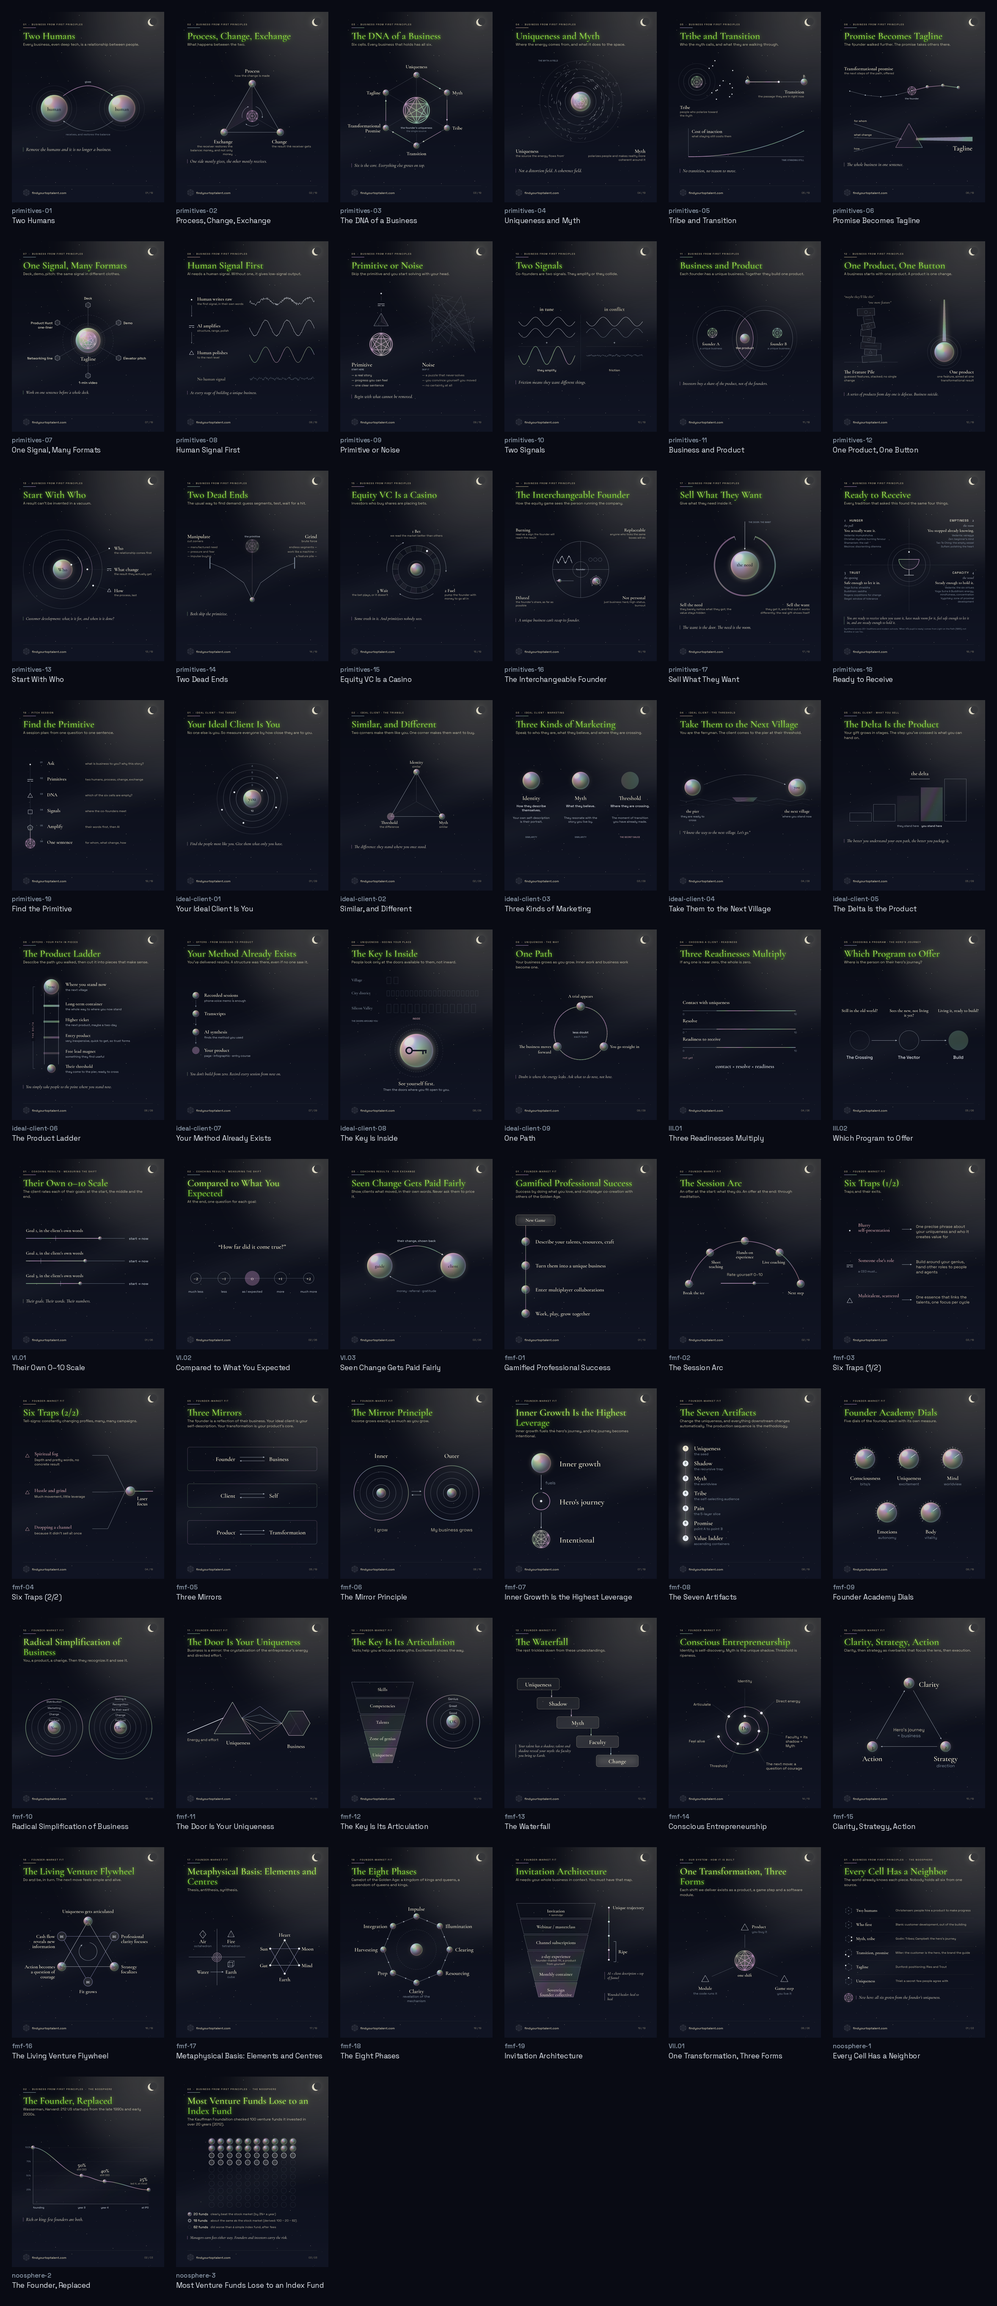
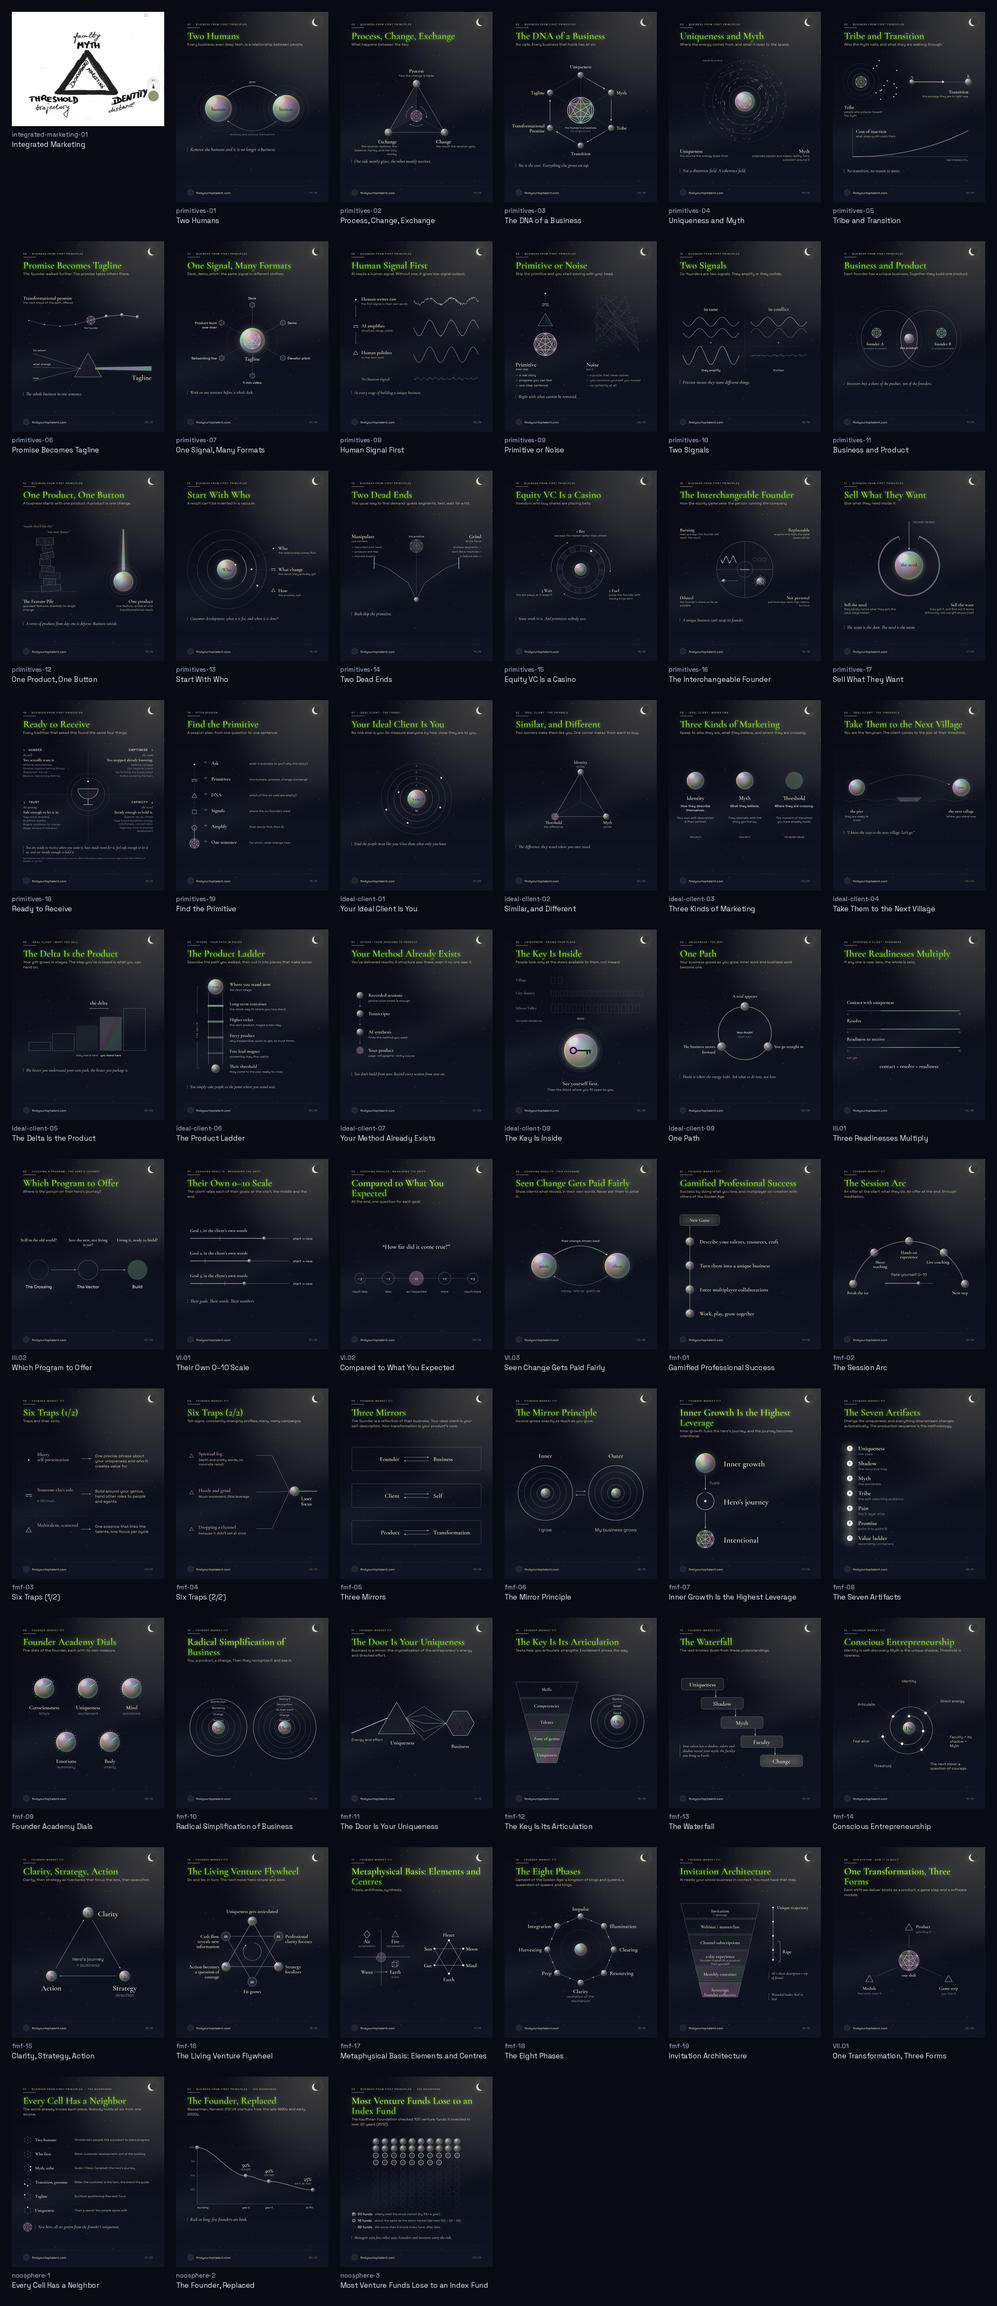
feat(book): as-is card kind; Integrated Marketing opens chapter 3 (#563) (#564)
* Book: Sasha's hand-drawn Integrated Marketing triangle (as is, 2026-11-27)

* feat(book): as-is card kind; Integrated Marketing opens chapter 3 (#563)

Add kind: as_is to the kit: the author's picture is converted to PNG and
never drawn, restyled, resized, cropped or footered. Lint checks only
title/caption and that the source file exists. Add Sasha's hand drawing as
integrated-marketing-01, first card of 3.1 (approved v1); regenerate reader
data, BOOK.md, sheet and lock.

---------

diff --git a/src/data/infographicBook.ts b/src/data/infographicBook.ts
@@ -96,6 +96,7 @@ export const BOOK_CHAPTERS: BookChapter[] = [
     depth: 2,
     coming: false,
     cards: [
+      { id: "integrated-marketing-01", title: "Integrated Marketing", caption: "Myth, Threshold, Identity: the path to business and client", image: "/infographics/book/integrated-marketing/integrated-marketing-01.png", status: "approved v1" },
       { id: "primitives-01", title: "Two Humans", caption: "Every business, even deep tech, is a relationship between people.", image: "/infographics/book/first-principles/primitives-01.png", status: "draft v4" },
       { id: "primitives-02", title: "Process, Change, Exchange", caption: "What happens between the two.", image: "/infographics/book/first-principles/primitives-02.png", status: "draft v4" },
       { id: "primitives-03", title: "The DNA of a Business", caption: "Six cells. Every business that holds has all six.", image: "/infographics/book/first-principles/primitives-03.png", status: "draft v4" },

diff --git a/src/data/__tests__/infographicBook.test.ts b/src/data/__tests__/infographicBook.test.ts
@@ -47,7 +47,7 @@ describe("the Book of Infographics data (C4) follows BOOK.md", () => {
 
   it("keeps BOOK.md order: 1, 2, 2.1 … 5", () => {
     expect(BOOK_CHAPTERS.map((c) => c.number)).toEqual(["1", "2", "2.1", "2.2", "2.3", "2.4", "3", "3.1", "3.2", "3.3", "4", "4.1", "4.2", "5"]);
-    expect(BOOK_CHAPTERS.find((c) => c.number === "3.1")?.cards).toHaveLength(19);
+    expect(BOOK_CHAPTERS.find((c) => c.number === "3.1")?.cards).toHaveLength(20);
     expect(BOOK_CHAPTERS.find((c) => c.number === "5")?.cards).toHaveLength(4);
   });
 });

diff --git a/docs/assets/infographics/kit/test_kit.py b/docs/assets/infographics/kit/test_kit.py
@@ -8,7 +8,7 @@ import unittest
 HERE = os.path.dirname(os.path.abspath(__file__))
 INF = os.path.dirname(HERE)
 sys.path.insert(0, INF)
-from kit import book_build, book_sync, compare, lint, render, skins, spec as specmod  # noqa: E402
+from kit import asis, book_build, book_sync, compare, lint, render, skins, spec as specmod  # noqa: E402
 
 
 class Fake:
@@ -419,6 +419,99 @@ class BookBuild(unittest.TestCase):
         book_build.build(self.paths, say=out.append)
         self.assertIn("rendered 1 of 2 card(s)", "\n".join(out))
         self.assertEqual(book_build.check(self.paths, say=lambda *_: None), 0)
+
+
+AS_IS_SPEC = """id: asis-01
+chapter: "2.1"
+kind: as_is
+source: asis-01.source.jpeg
+title: "Drawn By Hand"
+caption: "Shown exactly as drawn."
+text:
+  words: ["Myth", "Threshold"]
+sources:
+  - issue #563
+"""
+
+
+class AsIs(unittest.TestCase):
+    """`kind: as_is`: the card is the author's picture; the build converts it to PNG and never restyles it."""
+
+    def setUp(self):
+        self.tmp = tempfile.TemporaryDirectory()
+        r = self.tmp.name
+        os.makedirs(os.path.join(r, "book", "hand")); os.makedirs(os.path.join(r, "public"))
+        from PIL import Image
+        import numpy as np
+        rng = np.random.default_rng(7)
+        self.src = os.path.join(r, "book", "hand", "asis-01.source.jpeg")
+        Image.fromarray(rng.integers(0, 256, (90, 120, 3), dtype=np.uint8)).save(self.src, quality=90)  # 120x90, not a kit size
+        self.spec_path = os.path.join(r, "book", "hand", "asis-01.card.yaml")
+        self.write_spec(AS_IS_SPEC)
+        self.paths = book_build.Paths(book=os.path.join(r, "book"), public=os.path.join(r, "public"),
+                                      ts=os.path.join(r, "infographicBook.ts"), md=os.path.join(r, "BOOK.md"))
+        with open(os.path.join(self.paths.book, "book.yaml"), "w", encoding="utf-8") as f:
+            f.write('title: T\nchapters:\n  - number: "2"\n    title: Part\n    sections:\n      - number: "2.1"\n'
+                    '        title: First\n        cards:\n          - {id: asis-01, spec: hand/asis-01.card.yaml, status: approved v1}\n')
+        with open(self.paths.md, "w", encoding="utf-8") as f:  # BOOK.md lists the card, as the real one does
+            f.write(BOOKMD + "<!-- book:begin cards-hand -->\nold\n<!-- book:end cards-hand -->\n")
+
+    def tearDown(self):
+        self.tmp.cleanup()
+
+    def write_spec(self, text):
+        with open(self.spec_path, "w", encoding="utf-8") as f:
+            f.write(text)
+
+    def test_the_png_has_the_source_pixels_and_nothing_else(self):
+        import numpy as np
+        from PIL import Image
+        out = os.path.join(self.tmp.name, "out.png")
+        asis.build_png(specmod.load(self.spec_path), out)
+        a, b = Image.open(self.src), Image.open(out)
+        self.assertEqual((b.format, b.size, b.mode), ("PNG", a.size, a.mode))  # no resize, no crop, no footer band
+        self.assertTrue((np.asarray(a) == np.asarray(b)).all())
+
+    def test_lint_checks_the_file_and_the_words_only(self):
+        spec = specmod.load(self.spec_path)
+        self.assertTrue(asis.is_as_is(spec))
+        self.assertEqual([r for r in asis.check(spec) if not r[1]], [])  # no skin, no footer, no word limit
+        self.assertEqual(asis.missing(spec), [])
+        os.remove(self.src)
+        self.assertIn("source-file", [r for r, ok, _ in asis.check(spec) if not ok])
+        self.write_spec(AS_IS_SPEC.replace('title: "Drawn By Hand"\n', "").replace('caption: "Shown exactly as drawn."\n', ""))
+        self.assertEqual(sorted(asis.missing(specmod.load(self.spec_path))), ["caption", "title"])
+        self.write_spec(AS_IS_SPEC.replace("source: asis-01.source.jpeg", "source: ../elsewhere.jpeg"))
+        self.assertTrue(any(m.startswith("source") for m in asis.missing(specmod.load(self.spec_path))))
+        self.assertEqual(lint.lint_spec(self.spec_path)[1][0][1], "FAIL")  # same spec, bad source: lint fails, does not crash
+
+    def test_lint_spec_passes_a_good_as_is_card(self):
+        cid, rows = lint.lint_spec(self.spec_path)
+        self.assertEqual(cid, "asis-01")
+        self.assertEqual({s for _, s, _ in rows}, {"PASS"}, rows)
+
+    def test_book_build_copies_checks_and_notices_a_changed_source(self):
+        out = []
+        self.assertEqual(book_build.build(self.paths, say=out.append), 0, out)
+        png = os.path.join(self.paths.book, "hand", "asis-01.png")
+        pub = os.path.join(self.paths.public, "hand", "asis-01.png")
+        self.assertTrue(os.path.exists(png) and os.path.exists(pub))
+        self.assertEqual(book_build._sha(png), book_build._sha(pub))
+        self.assertIn("asis-01", book_build.read_lock(self.paths)["cards"])
+        self.assertEqual(book_build.check(self.paths, say=out.append), 0, out)
+        from PIL import Image
+        Image.new("RGB", (120, 90), (1, 2, 3)).save(self.src, quality=90)  # the author redraws it
+        self.assertNotEqual(book_build.check(self.paths, skip_lint=True, say=lambda *_: None), 0)
+        out = []
+        self.assertEqual(book_build.build(self.paths, say=out.append), 0, out)
+        self.assertIn("rendered 1 of 1 card(s)", "\n".join(out))
+        self.assertEqual(book_build.check(self.paths, say=lambda *_: None), 0)
+
+    def test_a_missing_source_stops_the_build(self):
+        os.remove(self.src)
+        out = []
+        self.assertNotEqual(book_build.build(self.paths, say=out.append), 0)
+        self.assertTrue(any("source-file" in l for l in out), out)
 
 
 class CaptionSize(unittest.TestCase):

diff --git a/docs/assets/infographics/kit/asis.py b/docs/assets/infographics/kit/asis.py
@@ -1,0 +1,66 @@
+"""As-is cards: the author's own picture shown exactly as drawn.
+
+A spec with `kind: as_is` and `source: <file>` (a file beside the spec) has no skin, no script and no renderer.
+The build converts the source to PNG and nothing else: no resize, no crop, no footer, no restyle.
+Lint checks two things only: title / caption (and id, chapter) are present, and the source file exists.
+
+Kept out of vocab/skins/render/spec on purpose: those files are the renderer fingerprint in book.lock.json,
+and touching them would mark all the drawn cards stale.
+"""
+import hashlib
+import os
+
+KIND = "as_is"
+RULES = ("spec-fields", "source-file")
+NEEDED = ("id", "chapter", "title", "caption", "source")
+PNG_MODES = ("1", "L", "LA", "P", "RGB", "RGBA", "I;16")
+
+
+def is_as_is(spec):
+    return spec.get("kind") == KIND
+
+
+def source_path(spec):
+    return os.path.join(os.path.dirname(spec.path), str(spec.get("source", "")))
+
+
+def missing(spec):
+    """Fields an as-is spec must carry. `source` is a bare file name: the picture lives beside its spec."""
+    bad = [k for k in NEEDED if not spec.get(k)]
+    for k in ("title", "caption"):
+        if spec.get(k) and not isinstance(spec[k], str):
+            bad.append(f"{k} (must be a string)")
+    src = spec.get("source")
+    if src and (not isinstance(src, str) or os.path.basename(src) != src):
+        bad.append("source (a file name beside the spec, no folders)")
+    return bad
+
+
+def check(spec):
+    """-> [(rule, ok, detail)], the same shape as lint.check."""
+    miss = missing(spec)
+    path = source_path(spec) if spec.get("source") and not any(m.startswith("source") for m in miss) else ""
+    exists = bool(path) and os.path.isfile(path)
+    return [("spec-fields", not miss, "id, chapter, title, caption, source present" if not miss else f"missing: {', '.join(miss)}"),
+            ("source-file", exists, os.path.basename(path) if exists else f"source file not found: {spec.get('source')!r}")]
+
+
+def build_png(spec, out_png):
+    """Write the source's pixels to out_png as PNG, untouched. (Only a mode PNG cannot hold, e.g. CMYK, is converted to RGB.)"""
+    from PIL import Image
+    with Image.open(source_path(spec)) as im:
+        im.load()
+        if im.mode not in PNG_MODES:
+            im = im.convert("RGB")
+        im.save(out_png, format="PNG", icc_profile=im.info.get("icc_profile"))
+    return out_png
+
+
+def fingerprint(spec):
+    """What the PNG is made of: the spec and the source file."""
+    h = hashlib.sha256()
+    for p in (spec.path, source_path(spec)):
+        with open(p, "rb") as f:
+            h.update(f.read())
+        h.update(b"\0")
+    return h.hexdigest()

diff --git a/docs/assets/infographics/kit/book_build.py b/docs/assets/infographics/kit/book_build.py
@@ -30,7 +30,7 @@ from collections import namedtuple
 import yaml
 
 sys.path.insert(0, os.path.dirname(os.path.dirname(os.path.abspath(__file__))))
-from kit import book_sync, lint, render, sheet, skins, spec as specmod  # noqa: E402
+from kit import asis, book_sync, lint, render, sheet, skins, spec as specmod  # noqa: E402
 
 REPO = os.path.normpath(os.path.join(skins.INFOGRAPHICS, "..", "..", ".."))
 Paths = namedtuple("Paths", "book public ts md")  # book = dir holding book.yaml, cards and sheet.png
@@ -124,9 +124,11 @@ def _card(entry, chapter_no, errors, seen_ids, paths):
         errors.append(f"{where}: spec says id {spec.get('id')!r}")
     if str(spec.get("chapter")) != chapter_no:
         errors.append(f"{where}: sits in chapter {chapter_no}, spec says chapter {spec.get('chapter')!r}")
-    miss = specmod.missing(spec)
+    miss = asis.missing(spec) if asis.is_as_is(spec) else specmod.missing(spec)
     if miss:
         errors.append(f"{where}: spec incomplete: {', '.join(miss)}")
+    elif asis.is_as_is(spec) and not os.path.isfile(asis.source_path(spec)):
+        errors.append(f"{where}: source-file: source file not found: {spec['source']!r}")
     card.update(spec=spec, folder=folder, image=f"{folder}/{cid}.png", title=spec.get("title", ""),
                 caption=spec.get("caption") or "")
     return card
@@ -264,6 +266,8 @@ def apply_markers(md, blocks):
 
 
 def fingerprint_card(spec):
+    if asis.is_as_is(spec):  # spec + source picture; no script, the renderer does not apply
+        return asis.fingerprint(spec)
     h = hashlib.sha256()
     for p in (spec.path, spec.script):
         with open(p, "rb") as f:
@@ -341,6 +345,11 @@ def pixel_diff(a, b):
 def render_card(card, paths, out_png):
     """Render to out_png, lint. -> list of FAIL lines (empty = lint PASS)."""
     spec = card["spec"]
+    if asis.is_as_is(spec):  # the author's picture: convert only, lint = file + title/caption
+        bad = [f"FAIL  {card['id']}  {r:<11} {d}" for r, ok, d in asis.check(spec) if not ok]
+        if not bad:
+            asis.build_png(spec, out_png)
+        return bad
     c = render.build(spec)
     c.save(out_png)
     return [f"FAIL  {card['id']}  {r:<11} {d}" for r, ok, d in lint.check(c, spec) if not ok]

diff --git a/docs/assets/infographics/kit/lint.py b/docs/assets/infographics/kit/lint.py
@@ -24,6 +24,10 @@ App icons (spec `kind: icon`, see icon.py) are checked by `check_icon` with ICON
   no-text      no text drawn on an icon
   spec-fields  as above
 
+As-is cards (spec `kind: as_is`, `source: <file>`, see asis.py) are never drawn, so they get two rules only:
+  spec-fields  id, chapter, title, caption and source present
+  source-file  the source file exists
+
 Icons v2 / v3 (spec `icon_version: 2|3`, issues #528, #533) add two rules and tighten one (ICON_V2_RULES):
   elements     at most 4 shapes (parts drawn with the same `group` count once), all on the "after" side: no before, no chevron
   fill         the sign's longest side is 62-78% of the tile (the brief says ~70%)
@@ -35,7 +39,7 @@ import sys
 import tempfile
 
 sys.path.insert(0, os.path.dirname(os.path.dirname(os.path.abspath(__file__))))
-from kit import skins, spec as specmod  # noqa: E402
+from kit import asis, skins, spec as specmod  # noqa: E402
 
 RULES = ("fit", "words", "palette", "accent", "margins", "min-font", "footer", "spec-fields")
 ICON_RULES = ("palette", "accent", "margins", "stroke", "elements", "no-text", "spec-fields")
@@ -218,6 +222,8 @@ def lint_spec(path):
     except Exception as e:  # unreadable spec
         return "?", [("spec-fields", "FAIL", f"cannot read spec: {e}")] + [(r, "SKIP", "no spec") for r in RULES if r != "spec-fields"]
     cid = spec.get("id", os.path.basename(path))
+    if asis.is_as_is(spec):  # the author's picture: only title/caption and the source file are checked
+        return cid, [(r, "PASS" if ok else "FAIL", d) for r, ok, d in asis.check(spec)]
     icon = spec.get("kind") == "icon"
     RS = (ICON_V2_RULES if spec.get("icon_version") in (2, 3) else ICON_RULES) if icon else RULES
     missing = specmod.missing(spec)

diff --git a/docs/assets/infographics/kit/ci.py b/docs/assets/infographics/kit/ci.py
@@ -10,7 +10,7 @@ import subprocess
 import sys
 
 sys.path.insert(0, os.path.dirname(os.path.dirname(os.path.abspath(__file__))))
-from kit import book_sync, lint, render, sheet, skins, spec as specmod  # noqa: E402
+from kit import asis, book_sync, lint, render, sheet, skins, spec as specmod  # noqa: E402
 
 REPO = os.path.normpath(os.path.join(skins.INFOGRAPHICS, "..", "..", ".."))
 GLOBAL = ("docs/assets/infographics/kit/", "docs/assets/infographics/engine-v4/", "docs/assets/infographics/fyt_style.py")
@@ -52,7 +52,8 @@ if __name__ == "__main__":
     os.makedirs(a.out, exist_ok=True)
     specs = [specmod.load(p) for p in paths]
     for s in specs:
-        render.render(s)
+        if not asis.is_as_is(s):  # as-is cards keep the author's pixels; the build converts them
+            render.render(s)
     rc = lint.main(paths)
     rc |= book_sync.main(paths)
     print(sheet.make_sheet(specs, os.path.join(a.out, "contact-sheet.png")))

diff --git a/docs/assets/infographics/kit/README.md b/docs/assets/infographics/kit/README.md
@@ -11,6 +11,7 @@ Needs `pip install pillow numpy pyyaml` (matplotlib + scipy only for the old `fy
 | `spec.py`, `render.py` | load `<card>.card.yaml`; import `<card>.py`, call `build(spec)`, save `<card>.png` |
 | `lint.py` | 8 rules on a rendered card, read from `card.log` (not image recognition) |
 | `book_build.py` | the Book from one manifest: `book/book.yaml` → render, lint, PNGs, reader data, BOOK.md blocks, `book/sheet.png`; `--check` for CI (see Book below) |
+| `asis.py` | as-is cards (`kind: as_is`): the author's picture converted to PNG, never drawn or restyled; its two lint rules (see Recipe: add a card the author drew) |
 | `book_sync.py` | `--check`: spec title/caption equal `BOOK.md` and `src/data/infographicBook.ts` |
 | `sheet.py` | one contact sheet PNG per batch: grid, each card with id + title |
 | `compare.py` | mean abs pixel diff of a ported card against the engine-v4 render it came from |
@@ -146,6 +147,13 @@ Generated: `infographicBook.ts`, the `<!-- book:begin … -->` blocks of `BOOK.m
 1. Edit the card's `*.card.yaml` (text, title, caption) or `*.py` (drawing).
 2. `python3 kit/book_build.py`: only that card re-renders; it prints the mean pixel diff against the previous PNG. A title or caption change also moves the reader data and the `BOOK.md` list.
 3. If the card is a law (`III.01` ...), also edit its hand-written `### III.01` section in `BOOK.md` (title, Subtitle); `--check` fails until they agree.
+
+### Recipe: add a card the author drew (as is)
+A hand drawing, a photo or any finished picture goes into the Book untouched. It is never rendered, restyled, resized, cropped or given a footer; the build only converts it to PNG (`kit/asis.py`).
+1. Put the picture beside the spec: `book/<folder>/<id>.source.<ext>` (jpeg, png ...).
+2. Write `book/<folder>/<id>.card.yaml` with `kind: as_is`, `source: <that file name>`, `id`, `chapter`, `title`, `caption` (`text`, `author`, `sources` are for the record). No `skin`, no `<id>.py`.
+3. List it in `book/book.yaml` like any card, then `python3 kit/book_build.py`: it converts the source to `book/<folder>/<id>.png` and `public/infographics/book/<folder>/<id>.png`, records spec + source in `book.lock.json` and regenerates the rest. Changing the source file marks the card stale (`--check` fails until you rebuild).
+Lint checks two things only: `spec-fields` (id, chapter, title, caption, source present) and `source-file` (the file exists). No footer, margin, palette or word rules apply. Example: `book/integrated-marketing/`.
 
 ## App icons
 

diff --git a/docs/assets/infographics/BOOK.md b/docs/assets/infographics/BOOK.md
@@ -15,7 +15,7 @@ The book is the game journey in pictures: each chapter is a step or space of the
    - 2.3 Resources (to make)
    - 2.4 Quality of life (to make)
 3. Branch A, default: Unique Business
-   - 3.1 Business from first principles (19 cards)
+   - 3.1 Business from first principles (20 cards)
    - 3.2 Choosing your client (11 cards)
    - 3.3 Results and fair exchange (3 cards)
    - 3.4 Founder-Market Fit Discovery (19 cards)
@@ -28,6 +28,11 @@ The book is the game journey in pictures: each chapter is a step or space of the
 IDs III/VI/VII are old and will be renumbered once the order settles. The order inside 3.1 is still to settle.
 
 ### Card lists
+Integrated Marketing (1, opens chapter 3 and section 3.1): Sasha's hand drawing, shown as is (2026-11-27, issue #563). The image is never redrawn or restyled; the build only converts the source to PNG (`kind: as_is`, [kit/README.md](kit/README.md)). Triangle: Myth (faculty) on top, Threshold (trajectory) bottom left, Identity (distance) bottom right, Integrated Marketing inside. It opens the way to the business and the client.
+<!-- book:begin cards-integrated-marketing (generated by kit/book_build.py from book/book.yaml; edit book.yaml, not this block) -->
+- [Integrated Marketing](book/integrated-marketing/integrated-marketing-01.png) · Myth, Threshold, Identity: the path to business and client · status: approved v1
+<!-- book:end cards-integrated-marketing -->
+
 Business from first principles (19, chapter 3.1):
 <!-- book:begin cards-first-principles (generated by kit/book_build.py from book/book.yaml; edit book.yaml, not this block) -->
 - [Two Humans](book/first-principles/primitives-01.png) · Every business, even deep tech, is a relationship between people. · status: draft v4
